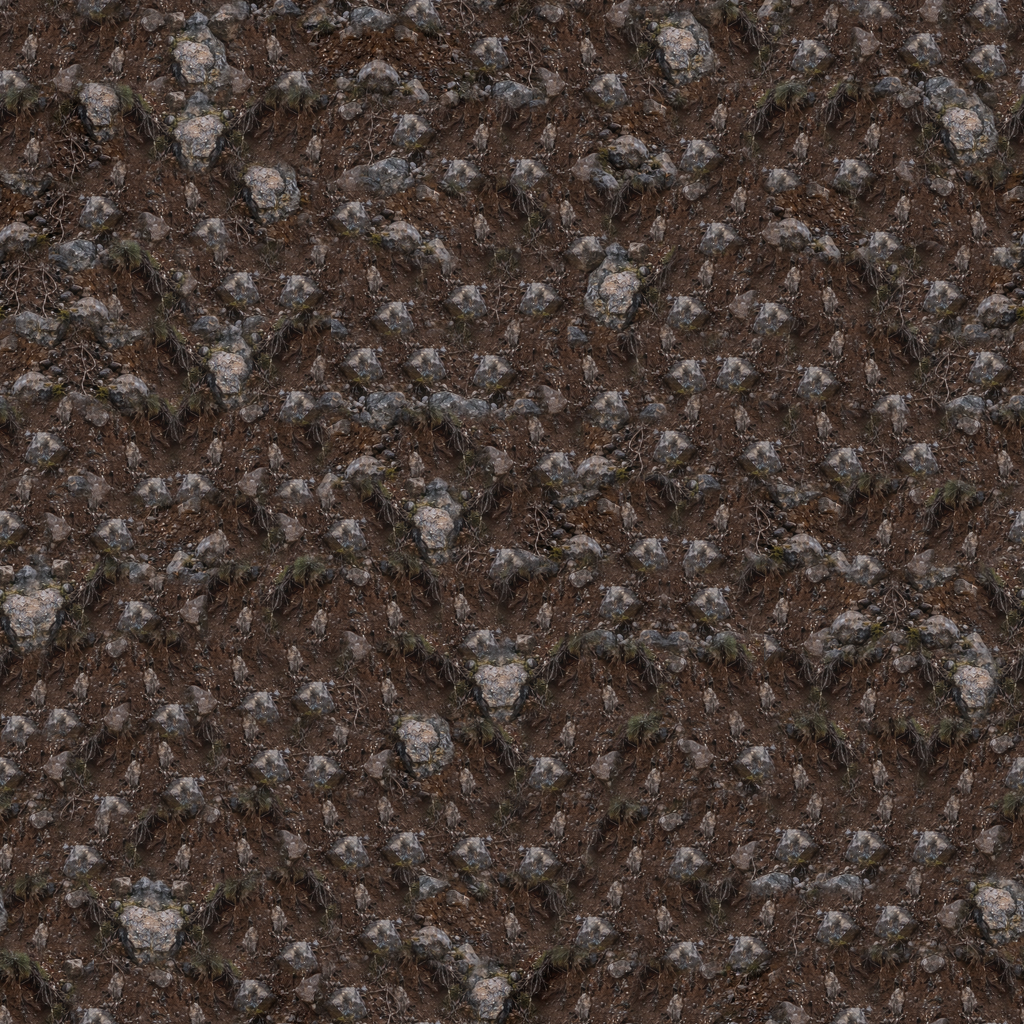
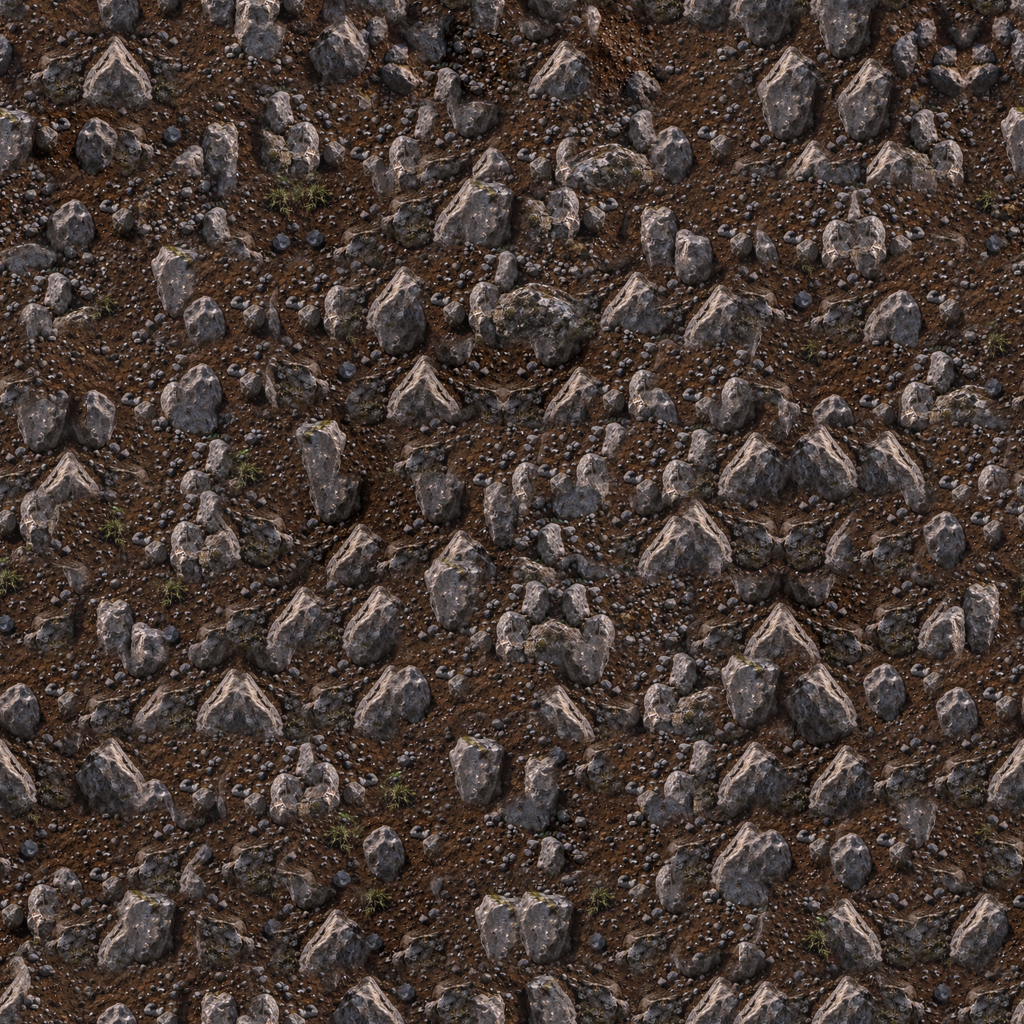
Версия 2026.10.16-23: грунт замков без узора «ёлочкой», матовый натуральный лёд в Арктике
Claude-Session: https://claude.ai/code/session_01JvXrYdG1XCH4i3GESsQzbh

diff --git a/js/terrain_visual.js b/js/terrain_visual.js
@@ -562,7 +562,7 @@ function shadeMaterial(S, mt, x, y, t, capT, d, info, o, isBack) {
       case 7: { // лёд: светлый у поверхности, густо-синий в толще, трещинки и искры
         const A = S.iceA, B = S.iceB, k = Math.min(1, d / 64) * 0.75 + n3 * 0.25;
         r = A[0] + (B[0] - A[0]) * k; g = A[1] + (B[1] - A[1]) * k; bl = A[2] + (B[2] - A[2]) * k;
-        const dv = Math.abs(tl.tv[ty2 | ((x >> 1) & 255)] - 0.5); if (dv < 0.01) { r = 236; g = 250; bl = 255; }
+        const dv = Math.abs(tl.tv[ty2 | ((x >> 1) & 255)] - 0.5); if (dv < 0.01) { r = r * 0.55 + 200 * 0.45; g = g * 0.55 + 215 * 0.45; bl = bl * 0.55 + 225 * 0.45; }
         if (hash3(x, y, 5) > 0.997) { r = g = bl = 255; }
         // пузырьки воздуха, слои намерзания, иней у поверхности
         { const bx = Math.floor(x / 9), by = Math.floor(y / 9), hb = hash3(bx, by, 21);
@@ -570,7 +570,10 @@ function shadeMaterial(S, mt, x, y, t, capT, d, info, o, isBack) {
             if (rr < rad * rad) { const k = rr < (rad - 0.8) * (rad - 0.8) ? 0.1 : 0.45; r += (255 - r) * k; g += (255 - g) * k; bl += (255 - bl) * k; } } }
         { const layer = Math.sin(y * 0.18 + tileAt(tl.t3, x, y, 3) * 6); r += layer * 5; g += layer * 6; bl += layer * 4; }
         if (d < 6 && n1 > 0.55) { r += (250 - r) * 0.45; g += (253 - g) * 0.45; bl += (255 - bl) * 0.45; }
-        o.spec = 0.9;
+        /* натуральный лёд: меньше насыщенности и глянца (была «пластиковая» плита), матовая изморозь пятнами, мутные слои */
+        { const L = (r + g + bl) / 3, fr = tileAt(tl.t3, x * 1.3, y * 1.3, 4, 61); r = L + (r - L) * 0.6 - 6; g = L + (g - L) * 0.6 - 3; bl = L + (bl - L) * 0.65;
+          if (fr > 0.62) { const q = (fr - 0.62) * 1.6; r += (214 - r) * q; g += (224 - g) * q; bl += (232 - bl) * q; } }
+        o.spec = 0.35;
         break;
       }
       case 8: { // кристалл: неправильные грани (ячейки Вороного), плавный перелив цвета, светлые рёбра, свечение изнутри

diff --git a/index.html b/index.html
@@ -29,7 +29,7 @@
       <div class="menu-facts"><div><strong>41</strong><span>вида оружия<br>и снаряжения</span></div><div><strong>08</strong><span>постоянных<br>полей боя</span></div><div><strong>02</strong><span>игрока.<br>один победитель.</span></div></div>
     </div>
     <div class="featured-map"><span class="eyebrow">ВЫБЕРИ СВОЁ ПОЛЕ БОЯ</span><div class="featured-title"><span id="featured-number">01 / 08</span><h2 id="featured-name">Зелёная долина</h2><div><button class="arrow-btn" data-act="map-prev" aria-label="Предыдущая карта">←</button><button class="arrow-btn" data-act="map-next" aria-label="Следующая карта">→</button></div></div><p id="featured-desc">Мельница на холме, пруд с мостом и тоннель под большим холмом</p><div class="map-dots" id="map-dots"></div><div class="static-label">◇ Фиксированная карта · Разрушаемое окружение</div></div>
-    <footer class="menu-footer"><span id="game-version">ВЕРСИЯ 2026.10.16-22</span><span>ПЛАНИРУЙ ХОД. МЕНЯЙ ЛАНДШАФТ.</span><span class="footer-status"><i></i> ГОТОВ К БОЮ</span></footer>
+    <footer class="menu-footer"><span id="game-version">ВЕРСИЯ 2026.10.16-23</span><span>ПЛАНИРУЙ ХОД. МЕНЯЙ ЛАНДШАФТ.</span><span class="footer-status"><i></i> ГОТОВ К БОЮ</span></footer>
   </section>
 
   <!-- Онлайн -->

diff --git a/dev/reference_ground.py b/dev/reference_ground.py
@@ -1,6 +1,7 @@
 """Грунт долины и замков из эталонов, с воспроизводимыми картами деталей.
 
 Запуск из любой папки: python dev/reference_ground.py [dirt_valley dirt_castle].
+Сейчас dirt_castle = dirt_valley × (0.91, 0.91, 0.98): исходник замков давал узор «ёлочкой» (16.10).
 Крупные исходные участки сохраняют форму валунов; не меняет геометрию карт.
 """
 from pathlib import Path
@@ -26,6 +27,8 @@ RECIPES = {
     'dirt_castle': {
         'seed': 113,
         'scale': 1.35,
+        'mirror': 0.0,          # зеркальные лоскуты косых слоёв давали узор «ёлочкой»
+        'reuse_penalty': 0.6,
         'lightness': 1.3,
         'sources': {
             'castles': [(1170, 550, 1480, 810), (1050, 640, 1340, 820), (15, 640, 195, 820)],
@@ -40,7 +43,7 @@ def build(name):
     for ref, boxes in recipe['sources'].items():
         srcs.extend(load_sources(ROOT / 'dev/reference' / (ref + '.png'), boxes, recipe['scale']))
     a = quilt(srcs, 2048, B=224, O=64, seed=recipe['seed'], cands=48,
-              feather=24, mirror=0.4, brightness=10.0, reuse_penalty=0.0)
+              feather=24, mirror=recipe.get('mirror', 0.4), brightness=10.0, reuse_penalty=recipe.get('reuse_penalty', 0.0))
     im = Image.fromarray(np.clip(a, 0, 255).astype(np.uint8))
     im = ImageEnhance.Color(im).enhance(0.8)
     im = ImageEnhance.Brightness(im).enhance(recipe['lightness'])

diff --git a/dev/NEXT_STEPS.md b/dev/NEXT_STEPS.md
@@ -7,7 +7,8 @@
 ## Артефакты карт (B1) — ход работы 16.10
 - Критик осмотрел все 8 карт (отчёт — в истории чата; кадры test-results/map-crop). Исправлено: значки-«вайфай» (рёбра скелета) → полузасыпанный скелет (decor.js bones); куски неба в текстуре вулкана → пересборка `SKYMASK=1 dev/tex_from_ref.py` без лоскутов с небом; базальт вулкана «доски/забор» → фото-порода темы (terrain_visual case 9); широкие шахты (вулкан) темнее — caveAO учитывает боковые стены (ширина ≥70 px); висящие останцы каньона/вулкана: проход district.cut срезал их основание → столбы сдвинуты левее, лестницы с обеих сторон (тропа к мосту теперь через верх столба); парковка города — колонны заднего плана под плитами.
 - v22: окна фасада только на задней стене здания (не на земле и не в фундаменте — город, дом под асфальтом), колонны парковки — только задний план (вырезаны из маски), деревья/грибы/пальмы сдвигаются из шахт-люков (decor.js inPit), водоросли корабля пятнами.
-- Ещё не исправлено (по заметности): город — вертикальные швы затемнения туннеля x≈300 и x≈4500, опора моста x≈4825 обрывается; каньон — конец арки оторван от плато x≈3456–3478, кирпичный кубик x422–569, обломок крыши x1300–1360; арктика — ледяная плита-«стекло» x3400–3900, красная труба на пике x2184–2304; пиратская — круглая пробоина x2189–2271 (задумана, вырез); alien — прорезь в острове x2222–2256; castles — повтор «ёлочки» в породе; valley — дренажные окна в пролётах моста (вырезы, оставлены); каньон — разрыв арки x≈3480 — это шахта лестницы (в игре лестница видна); общее — висящая верёвочная лестница в правой пропасти x≈4730–4830 (до воды не доходит).
+- v23: грунт замков без «ёлочки» (dirt_castle = грунт долины ×(0.91,0.91,0.98)); лёд Арктики матовый, без «пластика». ВНИМАНИЕ: указание tex.dirt: 'dirt_valley' в другой теме ломает синхронизацию маски хост/гость (tests/browser.cjs, mapHash) — не делать, копировать файл.
+- Ещё не исправлено (по заметности): город — вертикальные швы затемнения туннеля x≈300 и x≈4500, опора моста x≈4825 обрывается; каньон — конец арки оторван от плато x≈3456–3478, кирпичный кубик x422–569, обломок крыши x1300–1360; арктика — красный модуль станции на пике x2184–2304 (возможно, оставить: полярные станции красные); пиратская — круглая пробоина x2189–2271 (задумана, вырез); alien — прорезь в острове x2222–2256; valley — дренажные окна в пролётах моста (вырезы, оставлены); каньон — разрыв арки x≈3480 — это шахта лестницы (в игре лестница видна); общее — висящая верёвочная лестница в правой пропасти x≈4730–4830 (до воды не доходит).
 
 ## Просьбы пользователя от 02.10 — ещё не сделано (в этом порядке)
 
